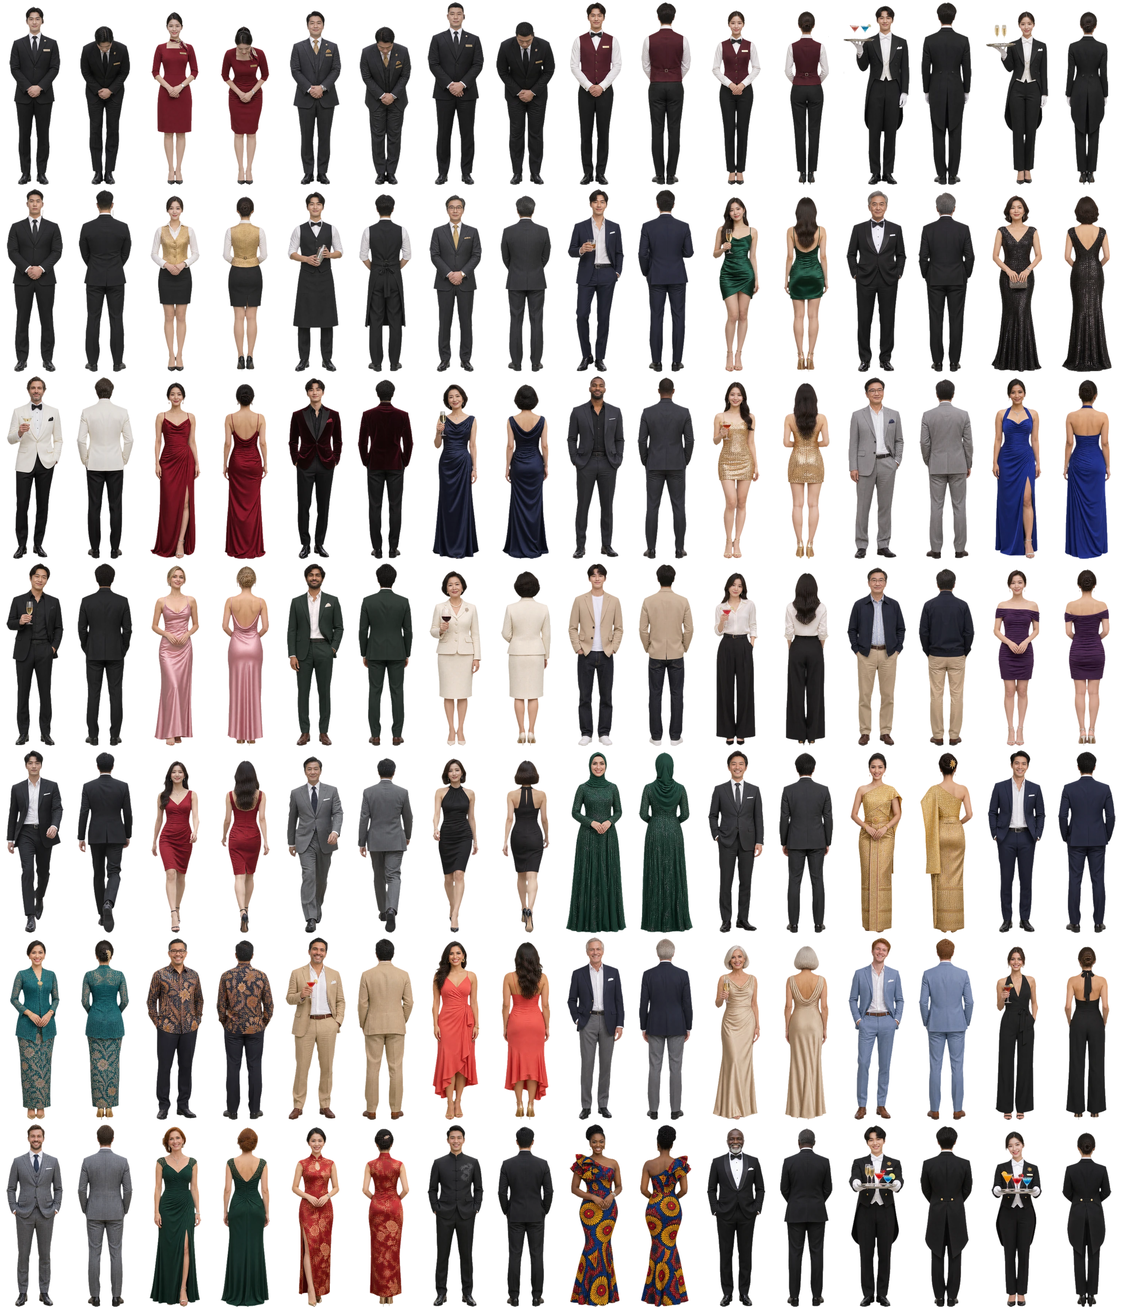
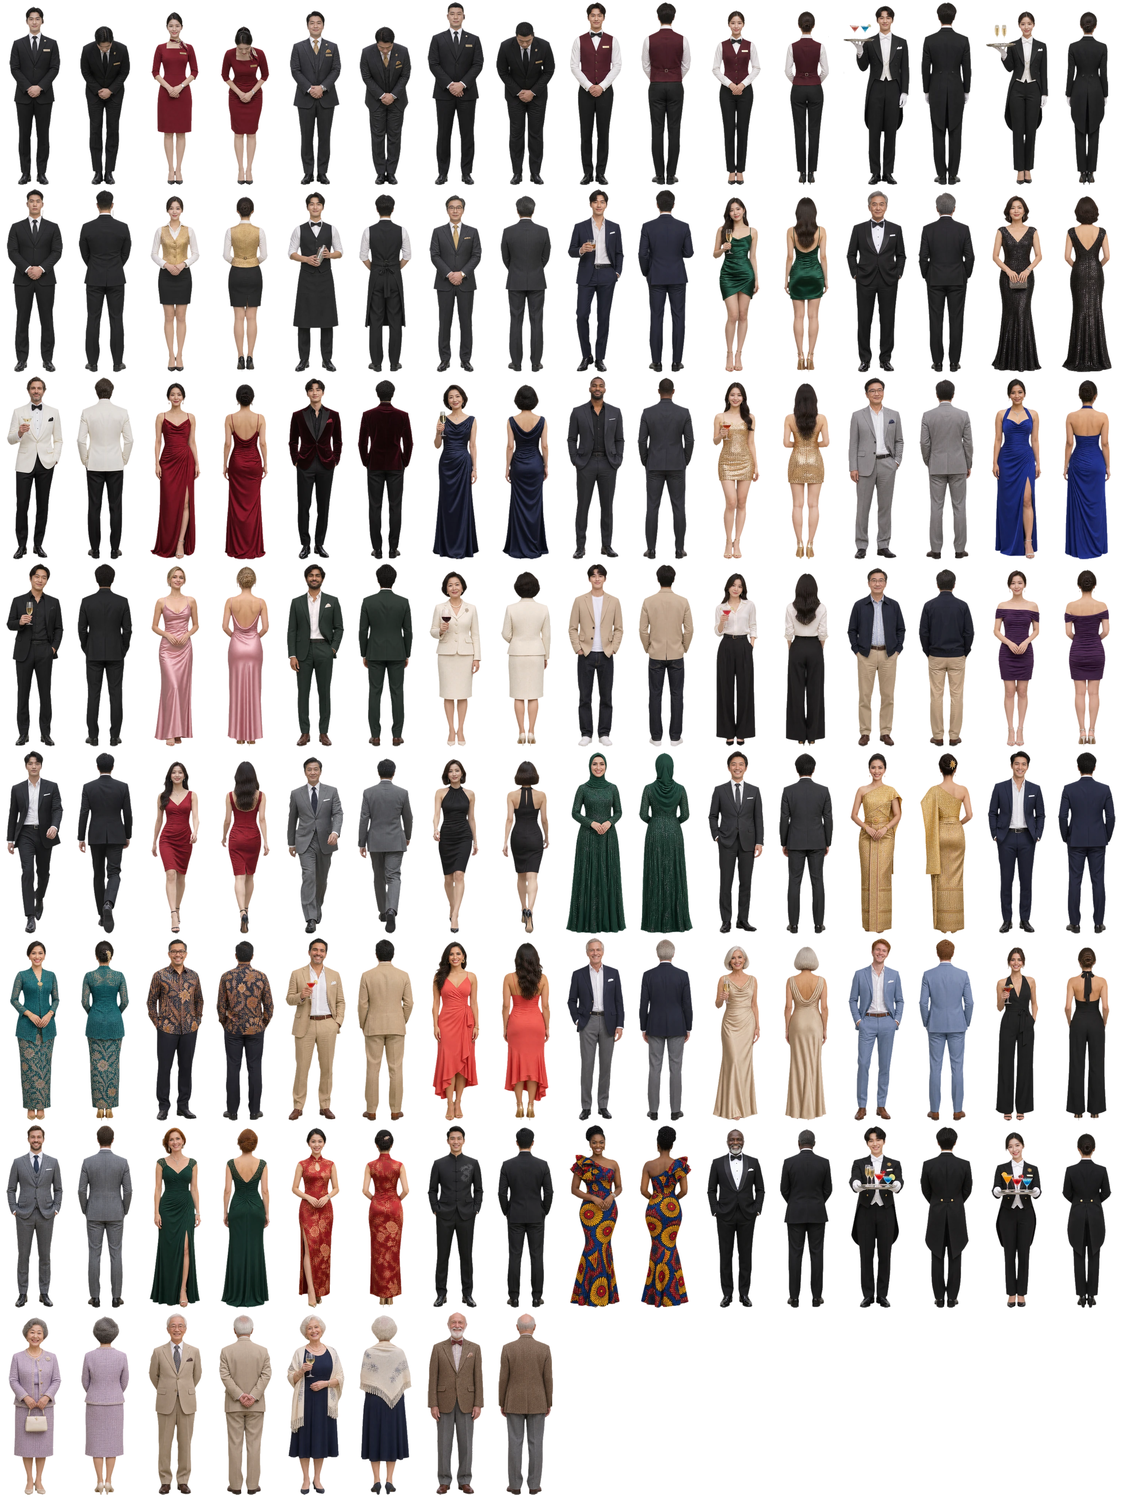
Guide asks at each game; side-on serving; elderly guests; bubbles on top
Claude-Session: https://claude.ai/code/session_014WNZ1Y4wytuD5tqWi41mod

diff --git a/casino3d/index.html b/casino3d/index.html
@@ -100,7 +100,7 @@ button:focus-visible,.btn:focus-visible{outline:2px solid var(--gold-hi);outline
 .gcard h3{margin:0;font-family:var(--display);font-size:1.6rem;color:var(--gold-hi)}
 .gcard p{margin:0;line-height:1.6;font-size:.9rem}
 .gcard .cta{flex:none;display:block}
-.bubble{pointer-events:auto;max-width:min(30em,100%);background:var(--glass);border:1px solid var(--gold);padding:12px 16px;text-align:center;display:flex;flex-direction:column;gap:6px;
+.bubble{position:fixed;left:50%;top:calc(env(safe-area-inset-top,0px) + 122px);translate:-50% 0;z-index:2;width:max-content;pointer-events:auto;max-width:min(30em,calc(100% - 32px));background:var(--glass);border:1px solid var(--gold);padding:12px 16px;text-align:center;display:flex;flex-direction:column;gap:6px;
   backdrop-filter:blur(8px);-webkit-backdrop-filter:blur(8px);box-shadow:0 8px 30px rgba(0,0,0,.6);animation:pop .35s cubic-bezier(.2,1.4,.4,1)}
 .bubble b{font-size:1.25rem;color:var(--gold-hi);font-weight:700;line-height:1.35}
 .bubble small{font-size:.8rem;color:var(--mute)}
@@ -552,9 +552,9 @@ const NP=1700;let nP=0;
 const pX=new Float32Array(NP),pZ=new Float32Array(NP),pY=new Float32Array(NP),pYaw=new Float32Array(NP),pS=new Float32Array(NP),pPh=new Float32Array(NP),
       pGT=new Float32Array(NP),pGD=new Float32Array(NP),pFlag=new Uint8Array(NP),pG=new Uint8Array(NP),pF=new Uint8Array(NP),pB=new Uint8Array(NP),pBow=new Int16Array(NP).fill(-1);
 // people.webp: 16 x 7 cells of photoreal cut-outs; each character has a front and a back cell (lobby staff: upright + bowing)
-const AT={cols:16,rows:7,h:1.93,file:'people.webp'};
+const AT={cols:16,rows:8,h:1.93,file:'people.webp'};
 const CHR={guardA:[0,17,1],host:[2,2,3],mgrA:[4,23,5],guardD:[6,17,7],dealerM:[8,9],dealerF:[10,11],waiterM:[12,13],waiterF:[14,15],security:[16,17],cashier:[18,19],bartender:[20,21],manager:[22,23]};
-const GUEST_M=[24,28,32,36,40,44,48,52,56,60],GUEST_F=[26,30,34,38,42,46,50,54,58,62],WALK_M=[64,68],WALK_F=[66,70];
+const GUEST_M=[24,28,32,36,40,44,48,52,56,114,118,88,106,28,44],GUEST_F=[26,30,34,38,42,46,50,54,58,62,112,116,90,54,38],WALK_M=[64,68],WALK_F=[66,70];
 const aPos=new T.InstancedBufferAttribute(new Float32Array(NP*3),3),aInfo=new T.InstancedBufferAttribute(new Float32Array(NP*4),4),aAnim=new T.InstancedBufferAttribute(new Float32Array(NP*2),2);
 [aPos,aInfo,aAnim].forEach(a=>a.setUsage(T.DynamicDrawUsage));
 const pUni={map:{value:null},uCam:{value:new T.Vector3()},uTime:{value:0},uGrid:{value:new T.Vector2(AT.cols,AT.rows)},uLin:{value:1},uTint:{value:new T.Color(.86,.8,.72)},uFogC:{value:new T.Color(0x070605)},uFogD:{value:.0048}};
@@ -960,7 +960,12 @@ const keys={};
 const V=(x,y,z)=>new T.Vector3(x,y,z);
 // the cinema tour is a stroll at eye level along the aisles
 const tourPos=new T.CatmullRomCurve3([[3.5,36],[3.5,18],[9,18],[23,18],[23,2],[34,2],[34,18],[34,34],[23,34],[9,34],[9,2],[3.5,2],[3.5,-13],[-3.5,-13],[-9,-13],[-9,2],[-23,2],[-23,18],[-34,18],[-34,34],[-23,34],[-9,34],[-3.5,36]].map(q=>V(q[0],EYE,q[1])),true,'catmullrom',.35);
-const TOURLEN=tourPos.getLength();let tourT=0;const tP=V(3.5,EYE,36),tT=V(3.5,EYE,18);
+const TOURLEN=tourPos.getLength();let tourT=0;
+const STOPS=[[16,18,'roulette','로열 룰렛','이쪽은 로열 룰렛입니다. 이 룰렛 게임 하시겠습니까?'],[16,34,'blackjack','로열 블랙잭','이쪽은 로열 블랙잭 테이블입니다. 이 블랙잭 게임 하시겠습니까?'],
+  [9,-6,'holdem','로열 홀덤','이쪽은 로열 홀덤입니다. 이 홀덤 게임 하시겠습니까?'],[0,-13,'wheel','그랜드 빅휠','정면이 그랜드 빅휠입니다. 이 빅휠 게임 하시겠습니까?'],
+  [-9,-6,'baccarat','바카라','이쪽은 바카라 살롱입니다. 이 바카라 게임 하시겠습니까?'],[-23,10,'slot','다이아몬드 로열 슬롯','이쪽은 슬롯머신입니다. 이 슬롯 게임 하시겠습니까?'],
+  [-16,34,'holdem','로열 홀덤','이쪽도 로열 홀덤 테이블입니다. 이 홀덤 게임 하시겠습니까?']].map(q=>{let bt=0,bd=1e9;for(let k=0;k<600;k++){const pt=tourPos.getPointAt(k/600),d=Math.hypot(pt.x-q[0],pt.z-q[1]);if(d<bd){bd=d;bt=k/600;}}return {t:bt,game:q[2],name:q[3],ask:q[4],done:false};});
+let guideAsk=null;const tP=V(3.5,EYE,36),tT=V(3.5,EYE,18);
 const DEST={wheel:[0,WZ+17.5,PI],roulette:[16,18,PI],blackjack:[16,33.2,PI],holdem:[-16,33.2,PI],baccarat:[-9,-6,-PI/2],slot:[-23,10,-PI/2],bar:[34.5,5,PI/2],cage:[33.5,32.5,PI/2],entrance:[0,37.5,PI]};
 function blocked(x,z){
   if(z>41.3){if(z<43.8)return Math.abs(x)>4.1||doorOpen<.8;return Math.abs(x)>14.8||z>60.8;}
@@ -981,7 +986,13 @@ function setMode(m){mode=m;
   $('v-walk').setAttribute('aria-pressed',m==='walk'?'true':'false');$('v-tour').setAttribute('aria-pressed',m==='tour'?'true':'false');
 }
 function camFromTour(){cam.x=tP.x;cam.y=tP.y;cam.z=tP.z;cam.yaw=Math.atan2(tT.x-tP.x,tT.z-tP.z);cam.pitch=0;}
-function exitTour(){camFromTour();cam.y=EYE;setMode('walk');}
+function exitTour(){camFromTour();cam.y=EYE;if(guideAsk){guideAsk=null;bubble.hidden=true;}setMode('walk');}
+function guideAnswer(yes){ // yes: to that game's empty seat; no: on to the next game
+  const q=guideAsk&&guideAsk.q;guideAsk=null;if(!q)return;
+  if(!yes){showBubble('네, 그럼 다음 게임으로 안내하겠습니다.',null,null,null,2600);speak('네, 그럼 다음 게임으로 안내하겠습니다.');return;}
+  let best=null,bd=1e9;for(const h of hotspots){if(!(h.type==='seat'?h.game===q.game:h.type===q.game))continue;const d=Math.hypot(h.x-tP.x,h.z-tP.z);if(d<bd){bd=d;best=h;}}
+  if(!best)return;showBubble(q.game==='wheel'?'네, 빅휠 앞으로 모시겠습니다.':'네, '+q.name+' 빈자리로 모시겠습니다.',null,null,null,2600);speak('네, 이쪽 빈자리로 모시겠습니다.');
+  camFromTour();cam.y=EYE;if(best.type==='wheel')joinWheel(best);else sitAt(best);}
 function nearestNode(x,z){let b=0,bd=1e9;for(let i=0;i<HALLN;i++){const d=Math.hypot(nodes[i].x-x,nodes[i].z-z);if(d<bd){bd=d;b=i;}}return b;}
 function route(x,z){ // aisle crossings from here to there
   const a=nearestNode(cam.x,cam.z),b=nearestNode(x,z),prev=new Int16Array(HALLN).fill(-1),q=[a];prev[a]=a;
@@ -1121,7 +1132,7 @@ function settle(){
 /* ---------- nav ---------- */
 document.querySelectorAll('[data-go]').forEach(b=>b.addEventListener('click',()=>flyDest(b.dataset.go)));
 $('v-walk').addEventListener('click',()=>{if(mode==='tour')exitTour();});
-$('v-tour').addEventListener('click',()=>{if(mode==='tour'){exitTour();return;}if(mode!=='walk')return;tP.set(cam.x,EYE,cam.z);tT.set(cam.x+Math.sin(cam.yaw)*10,EYE,cam.z+Math.cos(cam.yaw)*10);{let bd=1e9;for(let k=0;k<240;k++){const q=tourPos.getPointAt(k/240),d=Math.hypot(q.x-cam.x,q.z-cam.z);if(d<bd){bd=d;tourT=k/240;}}}setMode('tour');showBubble('이쪽으로 모시겠습니다. 천천히 따라오세요.','안내원이 앞장섭니다. 화면을 누르면 멈춥니다',null,null,4200);speak('이쪽으로 모시겠습니다. 천천히 따라오세요.');});
+$('v-tour').addEventListener('click',()=>{if(mode==='tour'){exitTour();return;}if(mode!=='walk')return;tP.set(cam.x,EYE,cam.z);tT.set(cam.x+Math.sin(cam.yaw)*10,EYE,cam.z+Math.cos(cam.yaw)*10);guideAsk=null;STOPS.forEach(q=>{q.done=false;});{let bd=1e9;for(let k=0;k<240;k++){const q=tourPos.getPointAt(k/240),d=Math.hypot(q.x-cam.x,q.z-cam.z);if(d<bd){bd=d;tourT=k/240;}}}setMode('tour');showBubble('이쪽으로 모시겠습니다. 천천히 따라오세요.','안내원이 게임마다 멈춰 여쭙니다. 화면을 누르면 멈춥니다',null,null,4200);speak('이쪽으로 모시겠습니다. 천천히 따라오세요.');});
 $('v-sound').addEventListener('click',e=>{Au.on=!Au.on;if(Au.on&&!Au.c){auInit();if(Au.c&&mode!=='lobby')Au.door.frequency.value=18000;}
   if(Au.c){if(Au.on)Au.c.resume();Au.master.gain.setTargetAtTime(Au.on?(mode==='lobby'?.38:VOL):0,Au.c.currentTime,.1);}e.currentTarget.setAttribute('aria-pressed',Au.on?'true':'false');});
 let ageOK=false;
@@ -1221,11 +1232,11 @@ function encUpdate(dt){
   const e=enc.e,L=enc.ids[0],fx=Math.sin(cam.yaw),fz=Math.cos(cam.yaw),rx=-fz,rz=fx;enc.t+=dt;if(enc.gap!==undefined&&enc.ph!=='talk')enc.gap-=dt;
   let dx=cam.x-pX[L],dz=cam.z-pZ[L],d=Math.hypot(dx,dz),sp=0;
   if(enc.ph==='approach'){
-    const lat=e.t==='bump'?.95:e.t==='glance'?1.15:1.05,tx=cam.x+rx*enc.sd*lat-pX[L],tz=cam.z+rz*enc.sd*lat-pZ[L],td=Math.hypot(tx,tz)||1;enc.hx=tx/td;enc.hz=tz/td;sp=1.3;
+    const lat=e.t==='bump'?.95:e.t==='glance'?1.15:1.45,tx=cam.x+rx*enc.sd*lat-pX[L],tz=cam.z+rz*enc.sd*lat-pZ[L],td=Math.hypot(tx,tz)||1;enc.hx=tx/td;enc.hz=tz/td;sp=1.3;
     if(e.t==='bump'&&d<2.1){enc.ph='pass';enc.t=0;enc.gap=5+R()*5;showBubble(e.say,e.ko,null,null,2600);speak(e.say,e.lang);}
     else if(e.t==='glance'&&d<2.4){enc.ph='pass';enc.t=0;enc.gap=5+R()*5;showBubble(e.say,e.ko,null,null,2600);speak(e.say,e.lang);}
-    else if((e.t==='waiter'||e.t==='group')&&d<(e.t==='group'?2.5:2.0)){enc.ph='talk';enc.t=0;enc.gap=5+R()*5;goTo=null;speak(e.say,e.lang);
-      if(e.t==='waiter')showBubble(e.say,'연미복 차림의 승무원이 쟁반을 내밉니다',['샴페인','칵테일','괜찮습니다'],k=>encReply(e,k));
+    else if((e.t==='waiter'||e.t==='group')&&d<(e.t==='group'?2.7:2.3)){enc.ph='talk';enc.t=0;enc.gap=5+R()*5;goTo=null;speak(e.say,e.lang);
+      if(e.t==='waiter')showBubble(e.say,'연미복 차림의 승무원이 옆에서 쟁반을 내밉니다',['샴페인','칵테일','괜찮습니다'],k=>encReply(e,k));
       else showBubble(e.say,'한국인 일행이 먼저 말을 걸어옵니다',['네, 한국 사람이에요','Sorry?'],k=>encReply(e,k));}
     else if(enc.t>1.2&&((fx*-dx+fz*-dz)/(d||1)<.15&&d>3.2||enc.t>5)){ // the visitor turned away: come round in front again
       const sp2=aheadSpot();if(!sp2||(enc.n=(enc.n||0)+1)>6){endEnc();return;}pX[L]=sp2[0];pZ[L]=sp2[1];enc.t=0;}
@@ -1298,9 +1309,13 @@ function tick(){
     if(mx||mz){const sp=1.7*dt;if(!tryMove(cam.x+mx*sp,cam.z+mz*sp)){stuck+=dt;if(stuck>.5)goTo=null;}else stuck=0;}
     cam.y+=(EYE+((mx||mz)?Math.sin(time*9)*.035:0)-cam.y)*Math.min(1,dt*8);
   }
-  if(mode==='tour'){tourT=(tourT+dt*1.25/TOURLEN)%1;const k=1-Math.exp(-dt*1.6);tP.lerp(tourPos.getPointAt(tourT),k);tT.lerp(tourPos.getPointAt((tourT+.022)%1),k);tP.y=EYE+Math.sin(time*7)*.02;tT.y=EYE+.05;camera.position.copy(tP);camera.lookAt(tT);
-    cam.x=tP.x;cam.z=tP.z;cam.y=EYE;cam.yaw=Math.atan2(tT.x-tP.x,tT.z-tP.z);cam.pitch=0;movingNow=true;
-    const gp=tourPos.getPointAt((tourT+3.4/TOURLEN)%1),gq=tourPos.getPointAt((tourT+3.9/TOURLEN)%1);pX[GUIDE]=gp.x;pZ[GUIDE]=gp.z;pY[GUIDE]=0;pYaw[GUIDE]=Math.atan2(gq.x-gp.x,gq.z-gp.z);pPh[GUIDE]+=dt*6;sync(GUIDE);aPos.needsUpdate=aInfo.needsUpdate=aAnim.needsUpdate=true;}
+  if(mode==='tour'){const pT=tourT;
+    if(guideAsk){guideAsk.t+=dt;if(guideAsk.t>14)guideAnswer(false);}
+    else{tourT=(tourT+dt*1.25/TOURLEN)%1;if(tourT<pT)STOPS.forEach(q=>{q.done=false;});
+      for(const q of STOPS){if(!q.done&&((pT<q.t&&q.t<=tourT)||(tourT<pT&&(q.t>pT||q.t<=tourT)))){q.done=true;guideAsk={q,t:0};speak(q.ask);
+        showBubble(q.ask,'안내원이 돌아서서 묻습니다',['예','아니오'],k=>guideAnswer(k===0));break;}}}const k=1-Math.exp(-dt*1.6);tP.lerp(tourPos.getPointAt(tourT),k);tT.lerp(tourPos.getPointAt((tourT+.022)%1),k);tP.y=EYE+Math.sin(time*7)*.02;tT.y=EYE+.05;camera.position.copy(tP);camera.lookAt(tT);
+    cam.x=tP.x;cam.z=tP.z;cam.y=EYE;cam.yaw=Math.atan2(tT.x-tP.x,tT.z-tP.z);cam.pitch=0;movingNow=!guideAsk;
+    const gp=tourPos.getPointAt((tourT+3.4/TOURLEN)%1),gq=tourPos.getPointAt((tourT+3.9/TOURLEN)%1);pX[GUIDE]=gp.x;pZ[GUIDE]=gp.z;pY[GUIDE]=0;pYaw[GUIDE]=guideAsk?Math.atan2(tP.x-gp.x,tP.z-gp.z):Math.atan2(gq.x-gp.x,gq.z-gp.z);if(guideAsk)pPh[GUIDE]=PI/2;else pPh[GUIDE]+=dt*6;sync(GUIDE);aPos.needsUpdate=aInfo.needsUpdate=aAnim.needsUpdate=true;}
   else if(pY[GUIDE]>-1){pY[GUIDE]=-60;sync(GUIDE);}
   if(mode!=='tour'&&mode!=='walk')movingNow=false;
   else{camera.position.set(cam.x,cam.y,cam.z);camera.rotation.set(cam.pitch,cam.yaw+PI,camRoll);}

diff --git a/casino3d/casino.src.html b/casino3d/casino.src.html
@@ -92,7 +92,7 @@ button:focus-visible,.btn:focus-visible{outline:2px solid var(--gold-hi);outline
 .gcard h3{margin:0;font-family:var(--display);font-size:1.6rem;color:var(--gold-hi)}
 .gcard p{margin:0;line-height:1.6;font-size:.9rem}
 .gcard .cta{flex:none;display:block}
-.bubble{pointer-events:auto;max-width:min(30em,100%);background:var(--glass);border:1px solid var(--gold);padding:12px 16px;text-align:center;display:flex;flex-direction:column;gap:6px;
+.bubble{position:fixed;left:50%;top:calc(env(safe-area-inset-top,0px) + 122px);translate:-50% 0;z-index:2;width:max-content;pointer-events:auto;max-width:min(30em,calc(100% - 32px));background:var(--glass);border:1px solid var(--gold);padding:12px 16px;text-align:center;display:flex;flex-direction:column;gap:6px;
   backdrop-filter:blur(8px);-webkit-backdrop-filter:blur(8px);box-shadow:0 8px 30px rgba(0,0,0,.6);animation:pop .35s cubic-bezier(.2,1.4,.4,1)}
 .bubble b{font-size:1.25rem;color:var(--gold-hi);font-weight:700;line-height:1.35}
 .bubble small{font-size:.8rem;color:var(--mute)}
@@ -544,9 +544,9 @@ const NP=1700;let nP=0;
 const pX=new Float32Array(NP),pZ=new Float32Array(NP),pY=new Float32Array(NP),pYaw=new Float32Array(NP),pS=new Float32Array(NP),pPh=new Float32Array(NP),
       pGT=new Float32Array(NP),pGD=new Float32Array(NP),pFlag=new Uint8Array(NP),pG=new Uint8Array(NP),pF=new Uint8Array(NP),pB=new Uint8Array(NP),pBow=new Int16Array(NP).fill(-1);
 // people.webp: 16 x 7 cells of photoreal cut-outs; each character has a front and a back cell (lobby staff: upright + bowing)
-const AT={cols:16,rows:7,h:1.93,file:'people.webp'};
+const AT={cols:16,rows:8,h:1.93,file:'people.webp'};
 const CHR={guardA:[0,17,1],host:[2,2,3],mgrA:[4,23,5],guardD:[6,17,7],dealerM:[8,9],dealerF:[10,11],waiterM:[12,13],waiterF:[14,15],security:[16,17],cashier:[18,19],bartender:[20,21],manager:[22,23]};
-const GUEST_M=[24,28,32,36,40,44,48,52,56,60],GUEST_F=[26,30,34,38,42,46,50,54,58,62],WALK_M=[64,68],WALK_F=[66,70];
+const GUEST_M=[24,28,32,36,40,44,48,52,56,114,118,88,106,28,44],GUEST_F=[26,30,34,38,42,46,50,54,58,62,112,116,90,54,38],WALK_M=[64,68],WALK_F=[66,70];
 const aPos=new T.InstancedBufferAttribute(new Float32Array(NP*3),3),aInfo=new T.InstancedBufferAttribute(new Float32Array(NP*4),4),aAnim=new T.InstancedBufferAttribute(new Float32Array(NP*2),2);
 [aPos,aInfo,aAnim].forEach(a=>a.setUsage(T.DynamicDrawUsage));
 const pUni={map:{value:null},uCam:{value:new T.Vector3()},uTime:{value:0},uGrid:{value:new T.Vector2(AT.cols,AT.rows)},uLin:{value:1},uTint:{value:new T.Color(.86,.8,.72)},uFogC:{value:new T.Color(0x070605)},uFogD:{value:.0048}};
@@ -952,7 +952,12 @@ const keys={};
 const V=(x,y,z)=>new T.Vector3(x,y,z);
 // the cinema tour is a stroll at eye level along the aisles
 const tourPos=new T.CatmullRomCurve3([[3.5,36],[3.5,18],[9,18],[23,18],[23,2],[34,2],[34,18],[34,34],[23,34],[9,34],[9,2],[3.5,2],[3.5,-13],[-3.5,-13],[-9,-13],[-9,2],[-23,2],[-23,18],[-34,18],[-34,34],[-23,34],[-9,34],[-3.5,36]].map(q=>V(q[0],EYE,q[1])),true,'catmullrom',.35);
-const TOURLEN=tourPos.getLength();let tourT=0;const tP=V(3.5,EYE,36),tT=V(3.5,EYE,18);
+const TOURLEN=tourPos.getLength();let tourT=0;
+const STOPS=[[16,18,'roulette','로열 룰렛','이쪽은 로열 룰렛입니다. 이 룰렛 게임 하시겠습니까?'],[16,34,'blackjack','로열 블랙잭','이쪽은 로열 블랙잭 테이블입니다. 이 블랙잭 게임 하시겠습니까?'],
+  [9,-6,'holdem','로열 홀덤','이쪽은 로열 홀덤입니다. 이 홀덤 게임 하시겠습니까?'],[0,-13,'wheel','그랜드 빅휠','정면이 그랜드 빅휠입니다. 이 빅휠 게임 하시겠습니까?'],
+  [-9,-6,'baccarat','바카라','이쪽은 바카라 살롱입니다. 이 바카라 게임 하시겠습니까?'],[-23,10,'slot','다이아몬드 로열 슬롯','이쪽은 슬롯머신입니다. 이 슬롯 게임 하시겠습니까?'],
+  [-16,34,'holdem','로열 홀덤','이쪽도 로열 홀덤 테이블입니다. 이 홀덤 게임 하시겠습니까?']].map(q=>{let bt=0,bd=1e9;for(let k=0;k<600;k++){const pt=tourPos.getPointAt(k/600),d=Math.hypot(pt.x-q[0],pt.z-q[1]);if(d<bd){bd=d;bt=k/600;}}return {t:bt,game:q[2],name:q[3],ask:q[4],done:false};});
+let guideAsk=null;const tP=V(3.5,EYE,36),tT=V(3.5,EYE,18);
 const DEST={wheel:[0,WZ+17.5,PI],roulette:[16,18,PI],blackjack:[16,33.2,PI],holdem:[-16,33.2,PI],baccarat:[-9,-6,-PI/2],slot:[-23,10,-PI/2],bar:[34.5,5,PI/2],cage:[33.5,32.5,PI/2],entrance:[0,37.5,PI]};
 function blocked(x,z){
   if(z>41.3){if(z<43.8)return Math.abs(x)>4.1||doorOpen<.8;return Math.abs(x)>14.8||z>60.8;}
@@ -973,7 +978,13 @@ function setMode(m){mode=m;
   $('v-walk').setAttribute('aria-pressed',m==='walk'?'true':'false');$('v-tour').setAttribute('aria-pressed',m==='tour'?'true':'false');
 }
 function camFromTour(){cam.x=tP.x;cam.y=tP.y;cam.z=tP.z;cam.yaw=Math.atan2(tT.x-tP.x,tT.z-tP.z);cam.pitch=0;}
-function exitTour(){camFromTour();cam.y=EYE;setMode('walk');}
+function exitTour(){camFromTour();cam.y=EYE;if(guideAsk){guideAsk=null;bubble.hidden=true;}setMode('walk');}
+function guideAnswer(yes){ // yes: to that game's empty seat; no: on to the next game
+  const q=guideAsk&&guideAsk.q;guideAsk=null;if(!q)return;
+  if(!yes){showBubble('네, 그럼 다음 게임으로 안내하겠습니다.',null,null,null,2600);speak('네, 그럼 다음 게임으로 안내하겠습니다.');return;}
+  let best=null,bd=1e9;for(const h of hotspots){if(!(h.type==='seat'?h.game===q.game:h.type===q.game))continue;const d=Math.hypot(h.x-tP.x,h.z-tP.z);if(d<bd){bd=d;best=h;}}
+  if(!best)return;showBubble(q.game==='wheel'?'네, 빅휠 앞으로 모시겠습니다.':'네, '+q.name+' 빈자리로 모시겠습니다.',null,null,null,2600);speak('네, 이쪽 빈자리로 모시겠습니다.');
+  camFromTour();cam.y=EYE;if(best.type==='wheel')joinWheel(best);else sitAt(best);}
 function nearestNode(x,z){let b=0,bd=1e9;for(let i=0;i<HALLN;i++){const d=Math.hypot(nodes[i].x-x,nodes[i].z-z);if(d<bd){bd=d;b=i;}}return b;}
 function route(x,z){ // aisle crossings from here to there
   const a=nearestNode(cam.x,cam.z),b=nearestNode(x,z),prev=new Int16Array(HALLN).fill(-1),q=[a];prev[a]=a;
@@ -1113,7 +1124,7 @@ function settle(){
 /* ---------- nav ---------- */
 document.querySelectorAll('[data-go]').forEach(b=>b.addEventListener('click',()=>flyDest(b.dataset.go)));
 $('v-walk').addEventListener('click',()=>{if(mode==='tour')exitTour();});
-$('v-tour').addEventListener('click',()=>{if(mode==='tour'){exitTour();return;}if(mode!=='walk')return;tP.set(cam.x,EYE,cam.z);tT.set(cam.x+Math.sin(cam.yaw)*10,EYE,cam.z+Math.cos(cam.yaw)*10);{let bd=1e9;for(let k=0;k<240;k++){const q=tourPos.getPointAt(k/240),d=Math.hypot(q.x-cam.x,q.z-cam.z);if(d<bd){bd=d;tourT=k/240;}}}setMode('tour');showBubble('이쪽으로 모시겠습니다. 천천히 따라오세요.','안내원이 앞장섭니다. 화면을 누르면 멈춥니다',null,null,4200);speak('이쪽으로 모시겠습니다. 천천히 따라오세요.');});
+$('v-tour').addEventListener('click',()=>{if(mode==='tour'){exitTour();return;}if(mode!=='walk')return;tP.set(cam.x,EYE,cam.z);tT.set(cam.x+Math.sin(cam.yaw)*10,EYE,cam.z+Math.cos(cam.yaw)*10);guideAsk=null;STOPS.forEach(q=>{q.done=false;});{let bd=1e9;for(let k=0;k<240;k++){const q=tourPos.getPointAt(k/240),d=Math.hypot(q.x-cam.x,q.z-cam.z);if(d<bd){bd=d;tourT=k/240;}}}setMode('tour');showBubble('이쪽으로 모시겠습니다. 천천히 따라오세요.','안내원이 게임마다 멈춰 여쭙니다. 화면을 누르면 멈춥니다',null,null,4200);speak('이쪽으로 모시겠습니다. 천천히 따라오세요.');});
 $('v-sound').addEventListener('click',e=>{Au.on=!Au.on;if(Au.on&&!Au.c){auInit();if(Au.c&&mode!=='lobby')Au.door.frequency.value=18000;}
   if(Au.c){if(Au.on)Au.c.resume();Au.master.gain.setTargetAtTime(Au.on?(mode==='lobby'?.38:VOL):0,Au.c.currentTime,.1);}e.currentTarget.setAttribute('aria-pressed',Au.on?'true':'false');});
 let ageOK=false;
@@ -1213,11 +1224,11 @@ function encUpdate(dt){
   const e=enc.e,L=enc.ids[0],fx=Math.sin(cam.yaw),fz=Math.cos(cam.yaw),rx=-fz,rz=fx;enc.t+=dt;if(enc.gap!==undefined&&enc.ph!=='talk')enc.gap-=dt;
   let dx=cam.x-pX[L],dz=cam.z-pZ[L],d=Math.hypot(dx,dz),sp=0;
   if(enc.ph==='approach'){
-    const lat=e.t==='bump'?.95:e.t==='glance'?1.15:1.05,tx=cam.x+rx*enc.sd*lat-pX[L],tz=cam.z+rz*enc.sd*lat-pZ[L],td=Math.hypot(tx,tz)||1;enc.hx=tx/td;enc.hz=tz/td;sp=1.3;
+    const lat=e.t==='bump'?.95:e.t==='glance'?1.15:1.45,tx=cam.x+rx*enc.sd*lat-pX[L],tz=cam.z+rz*enc.sd*lat-pZ[L],td=Math.hypot(tx,tz)||1;enc.hx=tx/td;enc.hz=tz/td;sp=1.3;
     if(e.t==='bump'&&d<2.1){enc.ph='pass';enc.t=0;enc.gap=5+R()*5;showBubble(e.say,e.ko,null,null,2600);speak(e.say,e.lang);}
     else if(e.t==='glance'&&d<2.4){enc.ph='pass';enc.t=0;enc.gap=5+R()*5;showBubble(e.say,e.ko,null,null,2600);speak(e.say,e.lang);}
-    else if((e.t==='waiter'||e.t==='group')&&d<(e.t==='group'?2.5:2.0)){enc.ph='talk';enc.t=0;enc.gap=5+R()*5;goTo=null;speak(e.say,e.lang);
-      if(e.t==='waiter')showBubble(e.say,'연미복 차림의 승무원이 쟁반을 내밉니다',['샴페인','칵테일','괜찮습니다'],k=>encReply(e,k));
+    else if((e.t==='waiter'||e.t==='group')&&d<(e.t==='group'?2.7:2.3)){enc.ph='talk';enc.t=0;enc.gap=5+R()*5;goTo=null;speak(e.say,e.lang);
+      if(e.t==='waiter')showBubble(e.say,'연미복 차림의 승무원이 옆에서 쟁반을 내밉니다',['샴페인','칵테일','괜찮습니다'],k=>encReply(e,k));
       else showBubble(e.say,'한국인 일행이 먼저 말을 걸어옵니다',['네, 한국 사람이에요','Sorry?'],k=>encReply(e,k));}
     else if(enc.t>1.2&&((fx*-dx+fz*-dz)/(d||1)<.15&&d>3.2||enc.t>5)){ // the visitor turned away: come round in front again
       const sp2=aheadSpot();if(!sp2||(enc.n=(enc.n||0)+1)>6){endEnc();return;}pX[L]=sp2[0];pZ[L]=sp2[1];enc.t=0;}
@@ -1290,9 +1301,13 @@ function tick(){
     if(mx||mz){const sp=1.7*dt;if(!tryMove(cam.x+mx*sp,cam.z+mz*sp)){stuck+=dt;if(stuck>.5)goTo=null;}else stuck=0;}
     cam.y+=(EYE+((mx||mz)?Math.sin(time*9)*.035:0)-cam.y)*Math.min(1,dt*8);
   }
-  if(mode==='tour'){tourT=(tourT+dt*1.25/TOURLEN)%1;const k=1-Math.exp(-dt*1.6);tP.lerp(tourPos.getPointAt(tourT),k);tT.lerp(tourPos.getPointAt((tourT+.022)%1),k);tP.y=EYE+Math.sin(time*7)*.02;tT.y=EYE+.05;camera.position.copy(tP);camera.lookAt(tT);
-    cam.x=tP.x;cam.z=tP.z;cam.y=EYE;cam.yaw=Math.atan2(tT.x-tP.x,tT.z-tP.z);cam.pitch=0;movingNow=true;
-    const gp=tourPos.getPointAt((tourT+3.4/TOURLEN)%1),gq=tourPos.getPointAt((tourT+3.9/TOURLEN)%1);pX[GUIDE]=gp.x;pZ[GUIDE]=gp.z;pY[GUIDE]=0;pYaw[GUIDE]=Math.atan2(gq.x-gp.x,gq.z-gp.z);pPh[GUIDE]+=dt*6;sync(GUIDE);aPos.needsUpdate=aInfo.needsUpdate=aAnim.needsUpdate=true;}
+  if(mode==='tour'){const pT=tourT;
+    if(guideAsk){guideAsk.t+=dt;if(guideAsk.t>14)guideAnswer(false);}
+    else{tourT=(tourT+dt*1.25/TOURLEN)%1;if(tourT<pT)STOPS.forEach(q=>{q.done=false;});
+      for(const q of STOPS){if(!q.done&&((pT<q.t&&q.t<=tourT)||(tourT<pT&&(q.t>pT||q.t<=tourT)))){q.done=true;guideAsk={q,t:0};speak(q.ask);
+        showBubble(q.ask,'안내원이 돌아서서 묻습니다',['예','아니오'],k=>guideAnswer(k===0));break;}}}const k=1-Math.exp(-dt*1.6);tP.lerp(tourPos.getPointAt(tourT),k);tT.lerp(tourPos.getPointAt((tourT+.022)%1),k);tP.y=EYE+Math.sin(time*7)*.02;tT.y=EYE+.05;camera.position.copy(tP);camera.lookAt(tT);
+    cam.x=tP.x;cam.z=tP.z;cam.y=EYE;cam.yaw=Math.atan2(tT.x-tP.x,tT.z-tP.z);cam.pitch=0;movingNow=!guideAsk;
+    const gp=tourPos.getPointAt((tourT+3.4/TOURLEN)%1),gq=tourPos.getPointAt((tourT+3.9/TOURLEN)%1);pX[GUIDE]=gp.x;pZ[GUIDE]=gp.z;pY[GUIDE]=0;pYaw[GUIDE]=guideAsk?Math.atan2(tP.x-gp.x,tP.z-gp.z):Math.atan2(gq.x-gp.x,gq.z-gp.z);if(guideAsk)pPh[GUIDE]=PI/2;else pPh[GUIDE]+=dt*6;sync(GUIDE);aPos.needsUpdate=aInfo.needsUpdate=aAnim.needsUpdate=true;}
   else if(pY[GUIDE]>-1){pY[GUIDE]=-60;sync(GUIDE);}
   if(mode!=='tour'&&mode!=='walk')movingNow=false;
   else{camera.position.set(cam.x,cam.y,cam.z);camera.rotation.set(cam.pitch,cam.yaw+PI,camRoll);}
